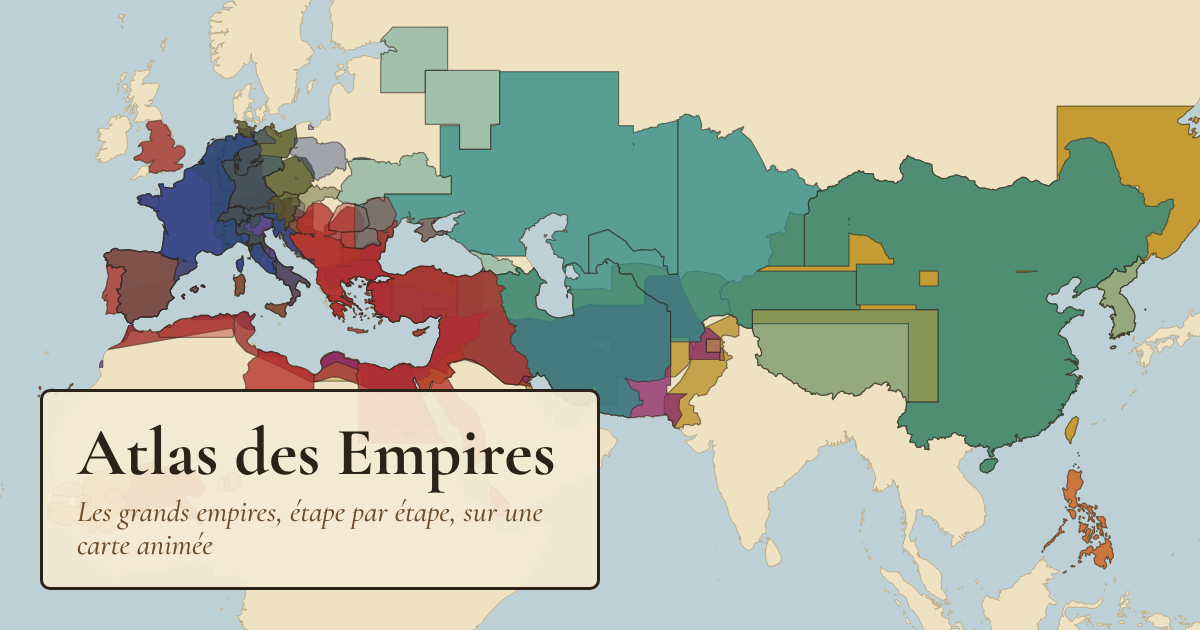
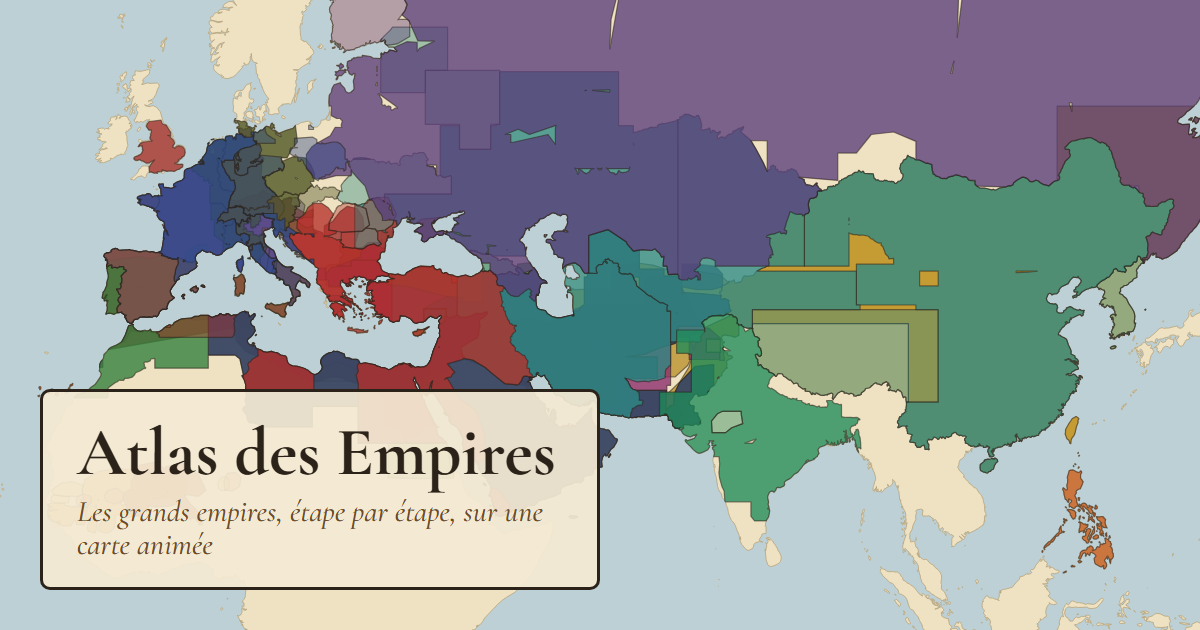
Empire russe 4/4: régions, image de partage, README et CLAUDE.md
Closes #79

diff --git a/CLAUDE.md b/CLAUDE.md
@@ -17,13 +17,13 @@ Carte interactive (React + Vite + TS strict + MapLibre GL, relief 3D) qui montre
 - Dev : `npm run dev` (5173, ou config `dev` de `.claude/launch.json`). Prod locale : `npm run serve` (4173).
 - Avant de pousser, comme la CI : `npm run typecheck && npm run lint && npm run format:check && npm test && npm run test:data`, puis `npm run test:e2e` et `npm run check:bundle` si l'UI ou les imports changent.
 - Un seul test : `npx vitest run tests/unit/march.test.ts -t "<nom>"` ; `npx playwright test e2e/map.spec.ts -g "<nom>"`. Les e2e font `npm run build` puis servent sur 4173 (un serveur déjà lancé sur 4173 est réutilisé : il doit être à jour).
-- Données géo : `npm run fetch:data` (une fois, dans `.cache/`), puis `npm run build:data` ou `build:data:<id>` (rome, napoleon, china, mongols, espagne, saint-empire, carolingiens, alexandre, ottomans, inca, mali, songhai, azteques, carthage, perse-achemenide, omeyyades, abbassides, moghols). Relancer Vite ensuite.
+- Données géo : `npm run fetch:data` (une fois, dans `.cache/`), puis `npm run build:data` ou `build:data:<id>` (rome, napoleon, china, mongols, espagne, saint-empire, carolingiens, alexandre, ottomans, inca, mali, songhai, azteques, carthage, perse-achemenide, omeyyades, abbassides, moghols, russie). Relancer Vite ensuite.
 - Agent : `npm run agent` (port 8000), `npm run agent:test`.
 
 ## État (à mettre à jour en fin de session)
-- Sur `main` : Rome, Napoléon, Chine, Mongols, Espagne, Saint-Empire, Carolingiens, Alexandre, Ottomans, Incas, Mali, Songhaï, Aztèques, Carthage, Perse achéménide, Califat omeyyade, Califat abbasside, Empire moghol (cartes de ces treize derniers composées depuis `overrides/<id>/_carto.json` par `scripts/empires/fromCarto.ts`, apogée forcée par `apogee` dans la timeline si la plus grande surface trompe) ; chatbot ADK (le « sage », Gemini ou Claude via `ATLAS_MODEL`) ; apogée sur la frise ; régiments animés (marche proportionnelle à la distance, `src/lib/march.ts`) ; empires contemporains ; carte du monde entière ; formulaire « Votre avis » (mailto) ; villes de départ des armées (`from`, `src/lib/origin.ts`) ; personnages illustres (`data/empires/<id>/people.json`, galerie, outil `chercher_personnage` du sage) ; monuments (`data/monuments.json`, calque, éventail des piles ; 7 merveilles antiques `wonder: true` : icône dorée hors piles, bandeau et filtre en galerie) ; routes commerciales (`data/routes.json`) et catastrophes/guerres (`data/disasters.json` ; zones de guerre découpées sur les terres par `scripts/build-disasters.ts` → `public/data/disaster-areas.geojson`, sous les territoires, masquées sur la carte d'un empire de `belligerentEmpires`) ; vue « Le monde en l'an X » (`src/world/`, `?world=1&year=`, bornes de la frise auto depuis `start`/`end` des empires) ; quiz du sage (`agent/atlas_agent/quiz.py`, `src/quiz/`) ; comparaison de deux empires (`src/compare/`, `?compare=a,b`, profils `data/empires/<id>/profile.json`) ; inventions révolutionnaires (`data/empires/<id>/inventions.json`, calque, frise, galerie, comparaison, outil du sage) ; piles d'icônes monuments + inventions réunies dans un seul éventail (`src/map/pileFan.ts`) ; capitales des voisins (`data/capitals.json` → `build-neighbors`, points `kind: 'capital'`) et des empires contemporains (`capitalOf` de `data/cities.json`, anneau dans le calque des villes). Cadre des voisins de la Chine et des Mongols : `NEIGHBOR_BOUNDS` dans `scripts/build-neighbors.ts`. Régions survolables et cliquables à l'arrêt (`territory-hover`, `src/map/regionCard.ts`, textes `data/empires/<id>/regions.json`, liste via `scripts/list-regions.ts`). Téléphone (≤ 767 px, `useIsMobile`) : carte plein écran, barre unique avec menu ☰ (`src/panels/MobileMenu.tsx`), tiroir à trois crans (`src/panels/BottomSheet.tsx`), frise compacte (`Timeline` `compact`), voir `docs/ARCHITECTURE.md` §12 ter. Page « Tous les empires » (`src/empires/`, `?empires=1&e=`). Accueil sur `/` seul (`src/landing/`, `<dialog>` posé sur l'Atlas qui charge la carte derrière) : Démarrer puis choix d'un empire ; état `landing` de `App.tsx` (`intro`/`choose`), gardé pendant l'aller-retour vers « Tous les empires ». Performances : calques d'empire au `style.load` (sans attendre le relief), `fetchLand` partagé, caravanes à l'arrêt hors vue, LRU des SDF, limite d'erreur + message WebGL2 (règles 6 à 8 de `docs/ARCHITECTURE.md`). Mesure avant/après : script Playwright ponctuel (rendu logiciel sur ce PC : comparer le chargement, pas les images/s). Mode « Devine la suite » (`src/guess/`, `player.guess`/`asking`). « Voir la bataille » (`src/battle/`, chunk lazy, canvas) : batailles jouables = clés de `data/battles/troops.json`, scénarios historiques `data/battles/scenarios/<stepId>.json` (contrat `src/types-battle.ts`), sinon simulation générique (`genericScenario`). Combat : poses `vise`/`recharge`/`baionnette` (`src/battle/poses.ts`, 4e paramètre de `soldierSvg`), armes à feu déduites des dessins (`src/battle/weapons.ts`), artillerie (`cannon.ts`), effets (fumée, éclairs, boulets, flèches) calculés depuis `t` dans `engine.ts` ; `action: 'feu' | 'baionnette'` dans les scénarios. Décor : `biome` par bataille dans `troops.json`, mise en page pure `src/battle/layout.ts` (`sceneryLayout`), dessin `scenery.ts` (sol précalculé hors écran, arbres triés avec les figurines). Ouvrir une bataille met la lecture en pause, fige l'étape et la relance à la fermeture si elle tournait (`App.tsx`). Formations historiques (`src/battle/formations.ts` : phalange, tortue, quinconce, tercio, carré, croissant, tirailleurs…) et montures dessinées (`mounts.ts` : chevaux, archers montés, éléphants, chars ; `ships.ts` : galères, galions, vaisseaux, jonques, barques, brûlots), action `feinte`. Batailles navales (Égates, Actium, Armada, Trafalgar, Yamen, Japon 1281, Bạch Đằng) : `ship`, `weather` (tempête : chavirements), `tide` + décor `pieux` (`src/battle/sea.ts`) ; scénario propre à un empire `<empireId>.<stepId>.json`, prioritaire. Galerie : onglet « Unités de bataille » (`src/figures/BattleUnits.tsx`, textes `src/battle/unitInfo.ts`, mini-scènes rendues par le moteur, « Où la voir » via `battlesUsing` de `src/battle/unitUsage.ts`) ; bouton « Tous » dans Inventions et Personnages illustres. Chargement à la demande : index `virtual:empire-index` (`build/empireIndex.ts`), `loadEmpire`/`loadAllEmpires`, `loadWorld` ; budget JS initial 460 Ko gzip (la CI compresse ~2 Ko de plus qu'en local ; SVG des figurines hors du JS initial : `loadSprites()` dans `src/map/sprites.ts`, les calques de la carte l'attendent) (`npm run check:bundle`). Si un test vitest échoue en `loaders[key] is not a function` après l'ajout d'un empire : vider `node_modules/.vitest-cache` (liste de `import.meta.glob` en cache). Style : Prettier + oxlint (`npm run lint`, `format`). Tests : un par grosse fonctionnalité (18 e2e, données groupées via `itAll`).
+- Sur `main` : Rome, Napoléon, Chine, Mongols, Espagne, Saint-Empire, Carolingiens, Alexandre, Ottomans, Incas, Mali, Songhaï, Aztèques, Carthage, Perse achéménide, Califat omeyyade, Califat abbasside, Empire moghol, Empire russe (1547-1917 ; cartes de ces quatorze derniers composées depuis `overrides/<id>/_carto.json` par `scripts/empires/fromCarto.ts`, apogée forcée par `apogee` dans la timeline si la plus grande surface trompe) ; chatbot ADK (le « sage », Gemini ou Claude via `ATLAS_MODEL`) ; apogée sur la frise ; régiments animés (marche proportionnelle à la distance, `src/lib/march.ts`) ; empires contemporains ; carte du monde entière ; formulaire « Votre avis » (mailto) ; villes de départ des armées (`from`, `src/lib/origin.ts`) ; personnages illustres (`data/empires/<id>/people.json`, galerie, outil `chercher_personnage` du sage) ; monuments (`data/monuments.json`, calque, éventail des piles ; 7 merveilles antiques `wonder: true` : icône dorée hors piles, bandeau et filtre en galerie) ; routes commerciales (`data/routes.json`) et catastrophes/guerres (`data/disasters.json` ; zones de guerre découpées sur les terres par `scripts/build-disasters.ts` → `public/data/disaster-areas.geojson`, sous les territoires, masquées sur la carte d'un empire de `belligerentEmpires`) ; vue « Le monde en l'an X » (`src/world/`, `?world=1&year=`, bornes de la frise auto depuis `start`/`end` des empires) ; quiz du sage (`agent/atlas_agent/quiz.py`, `src/quiz/`) ; comparaison de deux empires (`src/compare/`, `?compare=a,b`, profils `data/empires/<id>/profile.json`) ; inventions révolutionnaires (`data/empires/<id>/inventions.json`, calque, frise, galerie, comparaison, outil du sage) ; piles d'icônes monuments + inventions réunies dans un seul éventail (`src/map/pileFan.ts`) ; capitales des voisins (`data/capitals.json` → `build-neighbors`, points `kind: 'capital'`) et des empires contemporains (`capitalOf` de `data/cities.json`, anneau dans le calque des villes). Cadre des voisins de la Chine et des Mongols : `NEIGHBOR_BOUNDS` dans `scripts/build-neighbors.ts`. Régions survolables et cliquables à l'arrêt (`territory-hover`, `src/map/regionCard.ts`, textes `data/empires/<id>/regions.json`, liste via `scripts/list-regions.ts`). Téléphone (≤ 767 px, `useIsMobile`) : carte plein écran, barre unique avec menu ☰ (`src/panels/MobileMenu.tsx`), tiroir à trois crans (`src/panels/BottomSheet.tsx`), frise compacte (`Timeline` `compact`), voir `docs/ARCHITECTURE.md` §12 ter. Page « Tous les empires » (`src/empires/`, `?empires=1&e=`). Accueil sur `/` seul (`src/landing/`, `<dialog>` posé sur l'Atlas qui charge la carte derrière) : Démarrer puis choix d'un empire ; état `landing` de `App.tsx` (`intro`/`choose`), gardé pendant l'aller-retour vers « Tous les empires ». Performances : calques d'empire au `style.load` (sans attendre le relief), `fetchLand` partagé, caravanes à l'arrêt hors vue, LRU des SDF, limite d'erreur + message WebGL2 (règles 6 à 8 de `docs/ARCHITECTURE.md`). Mesure avant/après : script Playwright ponctuel (rendu logiciel sur ce PC : comparer le chargement, pas les images/s). Mode « Devine la suite » (`src/guess/`, `player.guess`/`asking`). « Voir la bataille » (`src/battle/`, chunk lazy, canvas) : batailles jouables = clés de `data/battles/troops.json`, scénarios historiques `data/battles/scenarios/<stepId>.json` (contrat `src/types-battle.ts`), sinon simulation générique (`genericScenario`). Combat : poses `vise`/`recharge`/`baionnette` (`src/battle/poses.ts`, 4e paramètre de `soldierSvg`), armes à feu déduites des dessins (`src/battle/weapons.ts`), artillerie (`cannon.ts`), effets (fumée, éclairs, boulets, flèches) calculés depuis `t` dans `engine.ts` ; `action: 'feu' | 'baionnette'` dans les scénarios. Décor : `biome` par bataille dans `troops.json`, mise en page pure `src/battle/layout.ts` (`sceneryLayout`), dessin `scenery.ts` (sol précalculé hors écran, arbres triés avec les figurines). Ouvrir une bataille met la lecture en pause, fige l'étape et la relance à la fermeture si elle tournait (`App.tsx`). Formations historiques (`src/battle/formations.ts` : phalange, tortue, quinconce, tercio, carré, croissant, tirailleurs…) et montures dessinées (`mounts.ts` : chevaux, archers montés, éléphants, chars ; `ships.ts` : galères, galions, vaisseaux, jonques, barques, brûlots), action `feinte`. Batailles navales (Égates, Actium, Armada, Trafalgar, Yamen, Japon 1281, Bạch Đằng) : `ship`, `weather` (tempête : chavirements), `tide` + décor `pieux` (`src/battle/sea.ts`) ; scénario propre à un empire `<empireId>.<stepId>.json`, prioritaire. Galerie : onglet « Unités de bataille » (`src/figures/BattleUnits.tsx`, textes `src/battle/unitInfo.ts`, mini-scènes rendues par le moteur, « Où la voir » via `battlesUsing` de `src/battle/unitUsage.ts`) ; bouton « Tous » dans Inventions et Personnages illustres. Chargement à la demande : index `virtual:empire-index` (`build/empireIndex.ts`), `loadEmpire`/`loadAllEmpires`, `loadWorld` ; budget JS initial 460 Ko gzip (la CI compresse ~2 Ko de plus qu'en local ; SVG des figurines hors du JS initial : `loadSprites()` dans `src/map/sprites.ts`, les calques de la carte l'attendent) (`npm run check:bundle`). Si un test vitest échoue en `loaders[key] is not a function` après l'ajout d'un empire : vider `node_modules/.vitest-cache` (liste de `import.meta.glob` en cache). Style : Prettier + oxlint (`npm run lint`, `format`). Tests : un par grosse fonctionnalité (18 e2e, données groupées via `itAll`).
 - Hébergement gratuit : `npm run serve` (local + réseau domestique) ; **en ligne** sur GitHub Pages (https://florentgru.github.io/empires-map/, chaque push sur `main` déploie) via `.github/workflows/pages.yml` (build `VITE_STATIC=1`, sans sage ; quiz hors ligne en TS `src/quiz/offline.ts`). Copie sur le VPS de Florent : `.github/workflows/vps.yml` (rsync SSH, sauté sans secrets `VPS_*`), port 8081, configs `deploy/`, procédure `docs/DEPLOIEMENT-VPS.md` (nginx : type `.mjs` obligatoire, sinon carte vide).
-- SEO : adresses lisibles `/<empire>/<étape>/` et pages de synthèse `/empires/`, `/monuments/`, `/personnages/`, `/inventions/` (`src/lib/seo.ts`, partagé ; anciennes adresses `?empire=&step=` encore comprises, `src/player/urlState.ts`). `npm run build` pré-rend 455 pages HTML (`scripts/prerender.ts` : tête, Open Graph, JSON-LD, article lisible sans JS) + sitemap, robots, llms.txt, 404. Images de partage et icônes : `npm run build:og` (PNG commités dans `public/og/`). Polices hébergées (`@fontsource`, plus de Google Fonts).
+- SEO : adresses lisibles `/<empire>/<étape>/` et pages de synthèse `/empires/`, `/monuments/`, `/personnages/`, `/inventions/` (`src/lib/seo.ts`, partagé ; anciennes adresses `?empire=&step=` encore comprises, `src/player/urlState.ts`). `npm run build` pré-rend 483 pages HTML (`scripts/prerender.ts` : tête, Open Graph, JSON-LD, article lisible sans JS) + sitemap, robots, llms.txt, 404. Images de partage et icônes : `npm run build:og` (PNG commités dans `public/og/`). Polices hébergées (`@fontsource`, plus de Google Fonts).
 - À faire par l'utilisateur : renseigner son adresse dédiée dans `src/config.ts` (`FEEDBACK_EMAIL`, publique)  ; déclarer le site et `sitemap.xml` dans Google Search Console et Bing Webmaster Tools.
 
 ## Règles de travail

diff --git a/README.md b/README.md
@@ -25,11 +25,11 @@
 
 ## At a glance
 
-| 18 empires on every continent | 432 key moments | 29 playable battles | 255 historical figures | 430 cities |
+| 19 empires on every continent | 459 key moments | 29 playable battles | 268 historical figures | 450 cities |
 |:-:|:-:|:-:|:-:|:-:|
 | from Alexander the Great to the Incas | battles, treaties, reforms, falls | 21 with a historical battle plan | biographies and quotes | with their period and modern names |
 
-**Empires:** Alexander the Great · Rome (509 BC – 1453) · China (1600 BC – 1912) · the Mongol Empire · the Carolingians · the Holy Roman Empire · the Spanish Empire · the Ottoman Empire · the Inca Empire (1438 – 1533) · the Mali Empire (1235 – 1670) · the Songhai Empire (1430 – 1591) · the Aztec Empire (1428 – 1521) · Carthage (650 – 146 BC) · Achaemenid Persia (550 – 330 BC) · the Umayyad Caliphate (661 – 750) · the Abbasid Caliphate (750 – 1258) · the Mughal Empire (1526 – 1857) · Napoleon's Empire.
+**Empires:** Alexander the Great · Rome (509 BC – 1453) · China (1600 BC – 1912) · the Mongol Empire · the Carolingians · the Holy Roman Empire · the Spanish Empire · the Ottoman Empire · the Inca Empire (1438 – 1533) · the Mali Empire (1235 – 1670) · the Songhai Empire (1430 – 1591) · the Aztec Empire (1428 – 1521) · Carthage (650 – 146 BC) · Achaemenid Persia (550 – 330 BC) · the Umayyad Caliphate (661 – 750) · the Abbasid Caliphate (750 – 1258) · the Mughal Empire (1526 – 1857) · the Russian Empire (1547 – 1917) · Napoleon's Empire.
 
 ## Features
 
@@ -77,7 +77,7 @@
 | Geo pipeline | Node + TypeScript scripts, Turf.js, signed distance fields baked into PNGs |
 | AI agent | Python, Google ADK, FastAPI; Gemini, Claude (via LiteLLM) or a local Ollama model |
 | Quality | Vitest, Playwright, oxlint, Prettier, pytest, GitHub Actions |
-| Hosting | GitHub Pages (static build, deployed on every push to `main`), 455 prerendered pages; optional copy on a VPS ([docs/DEPLOIEMENT-VPS.md](docs/DEPLOIEMENT-VPS.md)) |
+| Hosting | GitHub Pages (static build, deployed on every push to `main`), 483 prerendered pages; optional copy on a VPS ([docs/DEPLOIEMENT-VPS.md](docs/DEPLOIEMENT-VPS.md)) |
 
 ## How it works
 
@@ -99,7 +99,7 @@ Some engineering choices worth a look:
 - **Gliding borders with distance fields.** For each transition, a build script rasterizes the old and new borders into a signed distance field (SDF) and computes when each pixel is reached. In the browser, a fragment shader only receives one number per frame, the progress `p`, so the front advances pixel by pixel at 60 fps. The shader runs as a **MapLibre custom layer** draped onto the 3D terrain.
 - **Heavy geometry at build time, never in the browser.** Clipping, simplification, diffs and SDFs are precomputed. Empires are discovered from their data folder: adding one needs no code change.
 - **Performance budget.** Empires, sprites and the battle engine are loaded on demand; the initial JavaScript is checked in CI to stay under **460 KB gzipped**. Animations never touch React state or rebuild map data per frame.
-- **Static first, SEO included.** The build prerenders 455 HTML pages (empires, steps, galleries) with Open Graph, JSON-LD, a sitemap and `llms.txt`, so the atlas is readable without JavaScript.
+- **Static first, SEO included.** The build prerenders 483 HTML pages (empires, steps, galleries) with Open Graph, JSON-LD, a sitemap and `llms.txt`, so the atlas is readable without JavaScript.
 
 Full write-up (in French): [docs/ARCHITECTURE.md](docs/ARCHITECTURE.md).
 
@@ -157,7 +157,7 @@ npm run agent                      # agent server on port 8000, next to npm run 
 npm run fetch:data            # downloads historical-basemaps and Natural Earth into .cache/
 npm run build:data            # every empire: territories, diffs, distance fields, neighbors
 npm run build:data:ottomans   # a single empire: rome, napoleon, china, mongols, espagne,
-                              # saint-empire, carolingiens, alexandre, ottomans, inca, mali, songhai, azteques, carthage, perse-achemenide, omeyyades, abbassides, moghols
+                              # saint-empire, carolingiens, alexandre, ottomans, inca, mali, songhai, azteques, carthage, perse-achemenide, omeyyades, abbassides, moghols, russie
 ```
 
 Restart the dev server after regenerating `public/data`.
@@ -181,7 +181,7 @@ Restart the dev server after regenerating `public/data`.
 
 ## Roadmap
 
-- More empires: the British Empire, the Russian Empire, the Khmer Empire…
+- More empires: the British Empire, the Empire of Japan, the Khmer Empire…
 - More game modes: "guess the border", achievements.
 - More historical battle plans.
 
